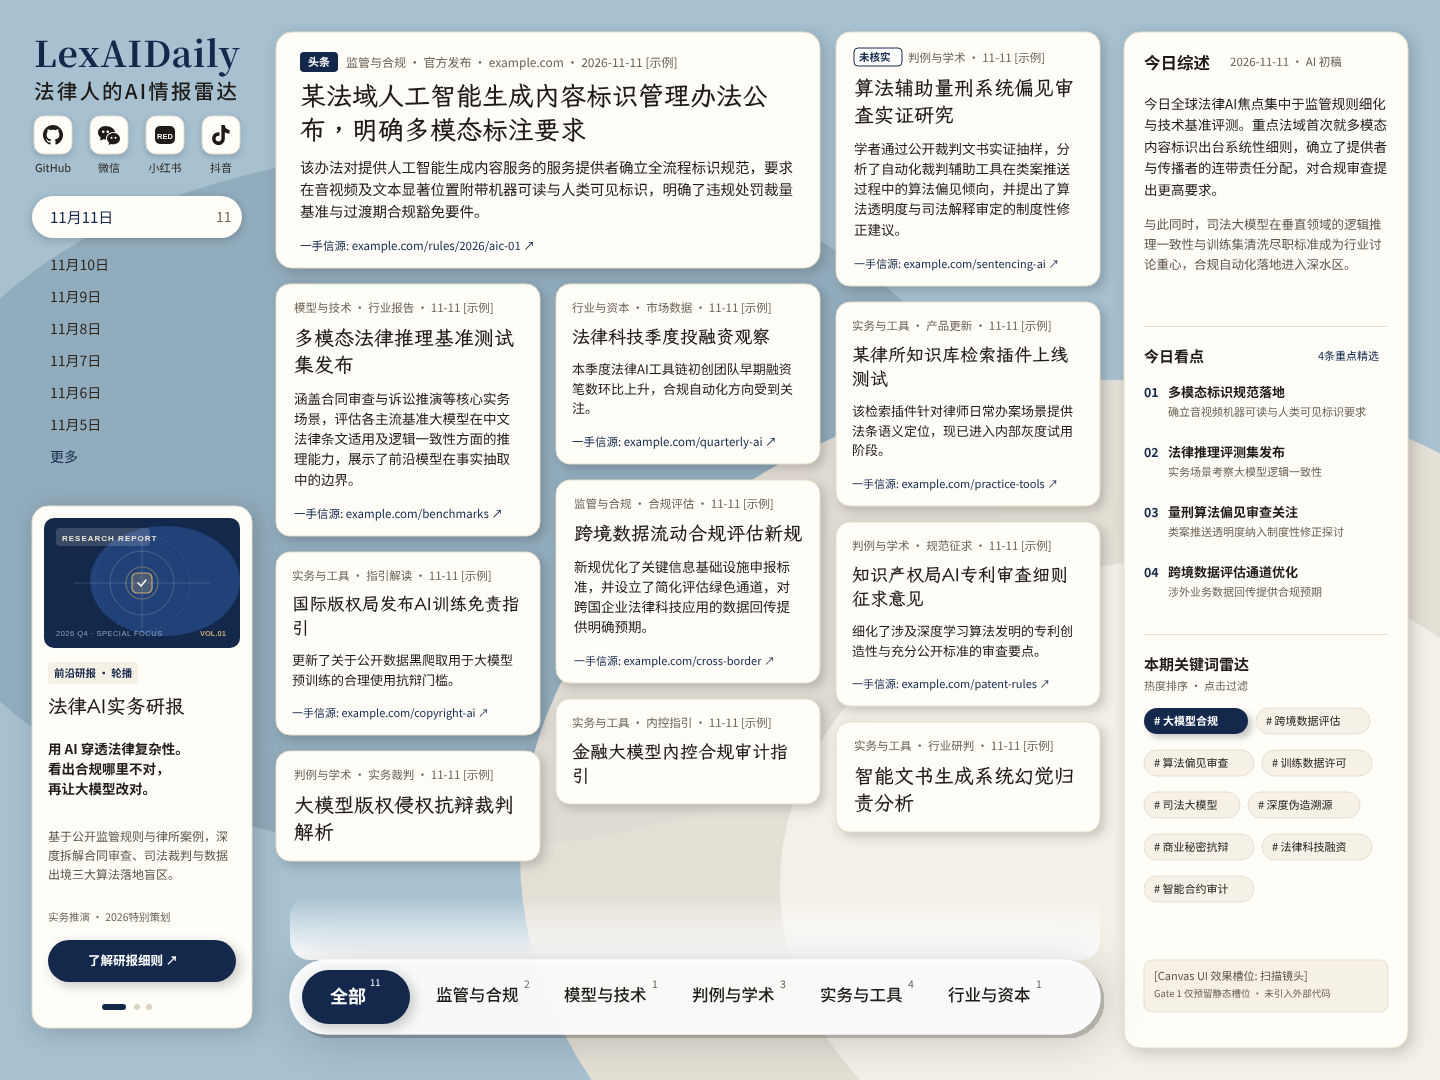
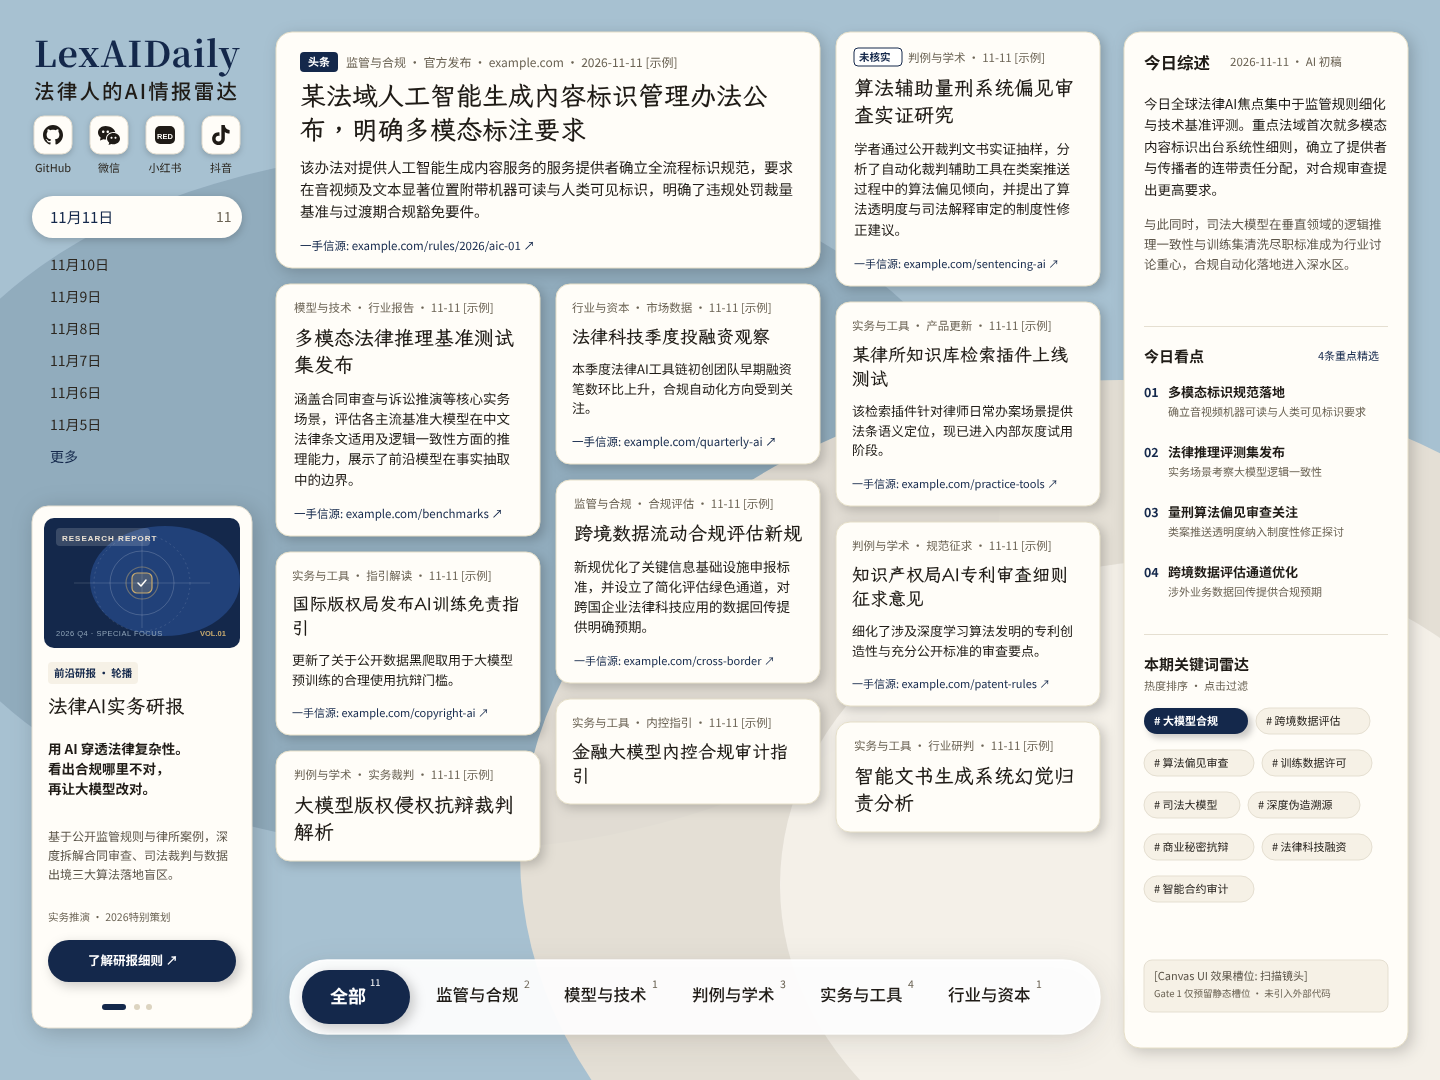
fix(design): B6 - 移动端摘要14px合规、分类条对称投影及视觉细节修复

Changed region(s): [[0.1875, 0.825, 0.5625, 0.8861], [0.75, 0.9167, 0.7812, 0.9472], [0.7188, 0.9472, 0.75, 0.9778]]

diff --git a/design/penpot.md b/design/penpot.md
@@ -107,3 +107,11 @@
      - **H9-2**：画板 01 瀑布流卡片紧凑化后，第一列卡片 09 结束于 y=861、第二列卡片 10 结束于 y=804、第三列卡片 11 结束于 y=832，所有卡片与文本均距分类条顶沿（y=960）留出 99px+ 清洁缓冲区，彻底消除条内重影、左上残字与右下灰边。
      - **H9-3**：画板 01、02 悬浮分类条“全部”项补充角标“11”（画板 01 激活胶囊内为白字，画板 02 未激活态为墨灰字 `#6B6354`）。
      - **H9-4**：画板 02 左下角轮播卡与画板 01 完全对齐；统一降级提示卡名称为《本日监管与合规更多候选条目核验说明》。
+7. **B6 批次交付说明（移动端摘要 14px 合规、对称投影及视觉细节修复）**：
+   - **H10-1（S2）画板 01 冗余渐变遮罩移除**：彻底删除画板 01 y=896 处的浅白渐变遮罩矩形（`gradient-mask-category-top`），消除卡片与悬浮分类条之间空旷留白区域的悬浮微白框。
+   - **H10-2（S2）画板 05 卡片文字贴边与溢出修复**：卡片内部文字左右内边距严格控制为 $\ge 12\text{px}$（版权卡摘要由 170px 收敛为 147px，右边距 13px；未核实卡元数据精简为“判例与学术 · 11-11”，宽度 105px，右边距 15px）。
+   - **H10-3（S2）画板 03 外链跳板页研判框与关联法规 14px 升级**：实务影响研判清单 4 条 bullet 与关联法规 3 条目字号全量由 12px 升级为 **14px**；调整 bullet 2 文案断句消除孤立尾字“测；”；研判框高度增至 240px、关联法规框增至 143px 紧凑包裹，消除任何截断或溢出。
+   - **H10-4（S3）画板 01、02 分类条右侧月牙偏心投影消除**：分类条底座投影由 `offsetX: 4` 改为水平严格对称的 `offsetX: 0` 双层阴影（`0 8px 32px rgba(31,27,22,0.10)` + `0 2px 8px rgba(31,27,22,0.06)`），彻底消除右端弧边处的锐利灰边月牙。
+   - **H10-5（S3）画板 02 轮播卡对齐验证**：经位图 absdiff 像素对比（`design/screenshots/g1-02b/` 中画板 01 与画板 02 轮播卡区域 x:32..252, y:506..1028），最大色差为 0、差异像素数严格为 0，确认两画板轮播卡完全一致。
+   - **H10-6（S3）画板 05 边距 8px 网格与外框对齐**：移动端左右外边距与顶栏 Logo（x=14）及底部悬浮分类条（x=14, w=362）严格对齐设为 **14px**，两列卡片宽度统一为 **173px**，列间距统一为 **16px**（$390 = 14 + 173 + 16 + 173 + 14$）。
+   - **B6 核心（D-020）移动端正文摘要 14px 与 3 行约束全量落地**：画板 05 全部 6 张资讯卡片及今日综述卡片的正文摘要字号统一提升至 **14px**（行高 1.5），每条摘要精炼至 27–33 字符，严格在 147px 宽度内呈现为 **3 行**，底栏留出 31px 充裕净空。

diff --git a/design/design-system.md b/design/design-system.md
@@ -157,8 +157,9 @@ LexAIDaily 面向执业律师、企业法务、合规官、法律科技从业者
 
 ### 4.4 网格与间距约束（8px 空间网格）
 
-- **桌面端**：同列内卡片垂直间距统一为 **16px**；3 列之间列间距统一为 **16px**；卡片紧凑包裹内容结束，底层留出 $\ge 90\text{px}$ 缓冲净空区，彻底杜绝文字或边框侵入底部悬浮分类条。
-- **移动端**：双列网格列间距统一为 **16px**，左右外边距严格对称设为 **11px**（$390 = 11 + 176 + 16 + 176 + 11$）；同列内垂直卡片间距全量统一为 **16px**。
+- **桌面端**：同列内卡片垂直间距统一为 **16px**；3 列之间列间距统一为 **16px**；卡片紧凑包裹内容结束，底层留出 $\ge 90\text{px}$ 缓冲净空区，彻底杜绝文字或边框侵入底部悬浮分类条。悬浮分类条底座采用水平对称双层阴影（`offsetX: 0`），消除右侧单边偏心月牙灰边。
+- **移动端**：双列网格列间距统一为 **16px**，左右外边距与顶栏及底栏胶囊严格对齐统一设为 **14px**，单列卡片宽度设为 **173px**（$390 = 14 + 173 + 16 + 173 + 14$）；同列内垂直卡片间距全量统一为 **16px**；移动端卡片摘要正文字号严格落地为 **14px**（$\le 3$ 行），卡片内文字左右内边距 $\ge 12\text{px}$，彻底杜绝文字贴边与溢出。
+- **外链跳板页正文与研判框**：桌面端跳板页实务影响研判清单与关联法规条目字号统一为 **14px**（行高 1.5），实务研判框（高 240px）与关联法规框（高 143px）自适应内容紧凑包裹，杜绝尾行单字孤立成行。
 
 
 ---
